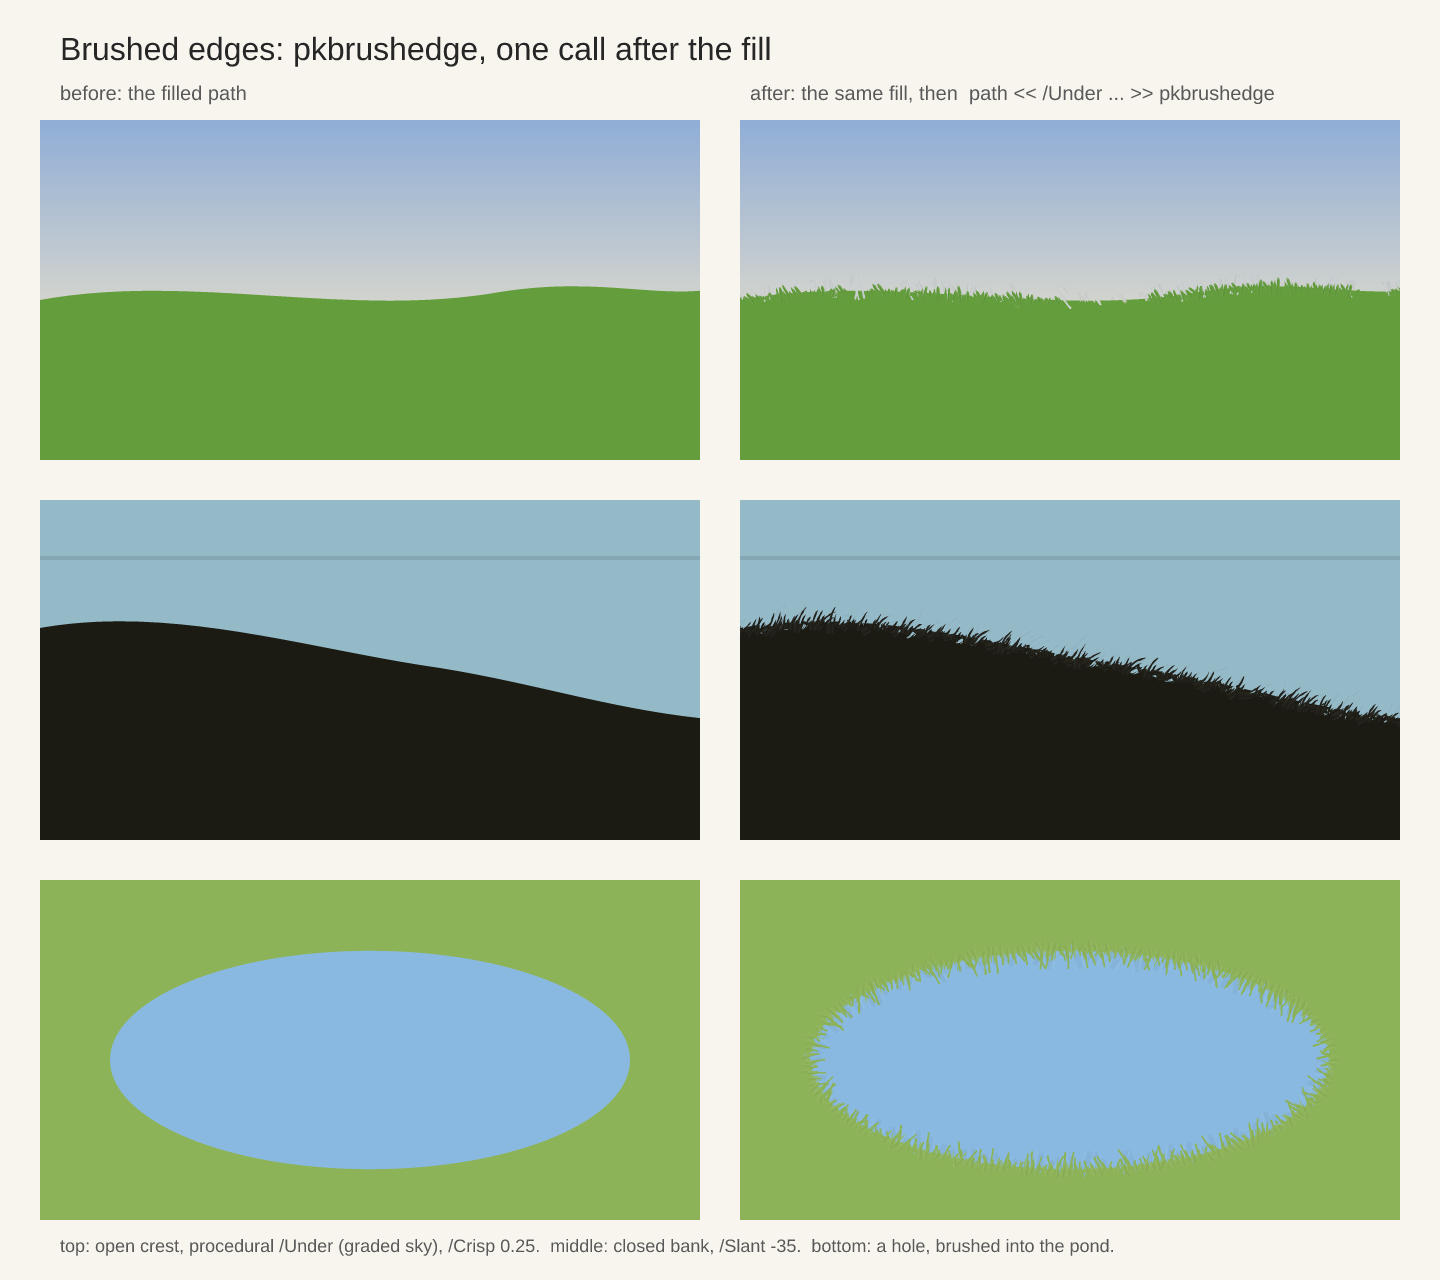
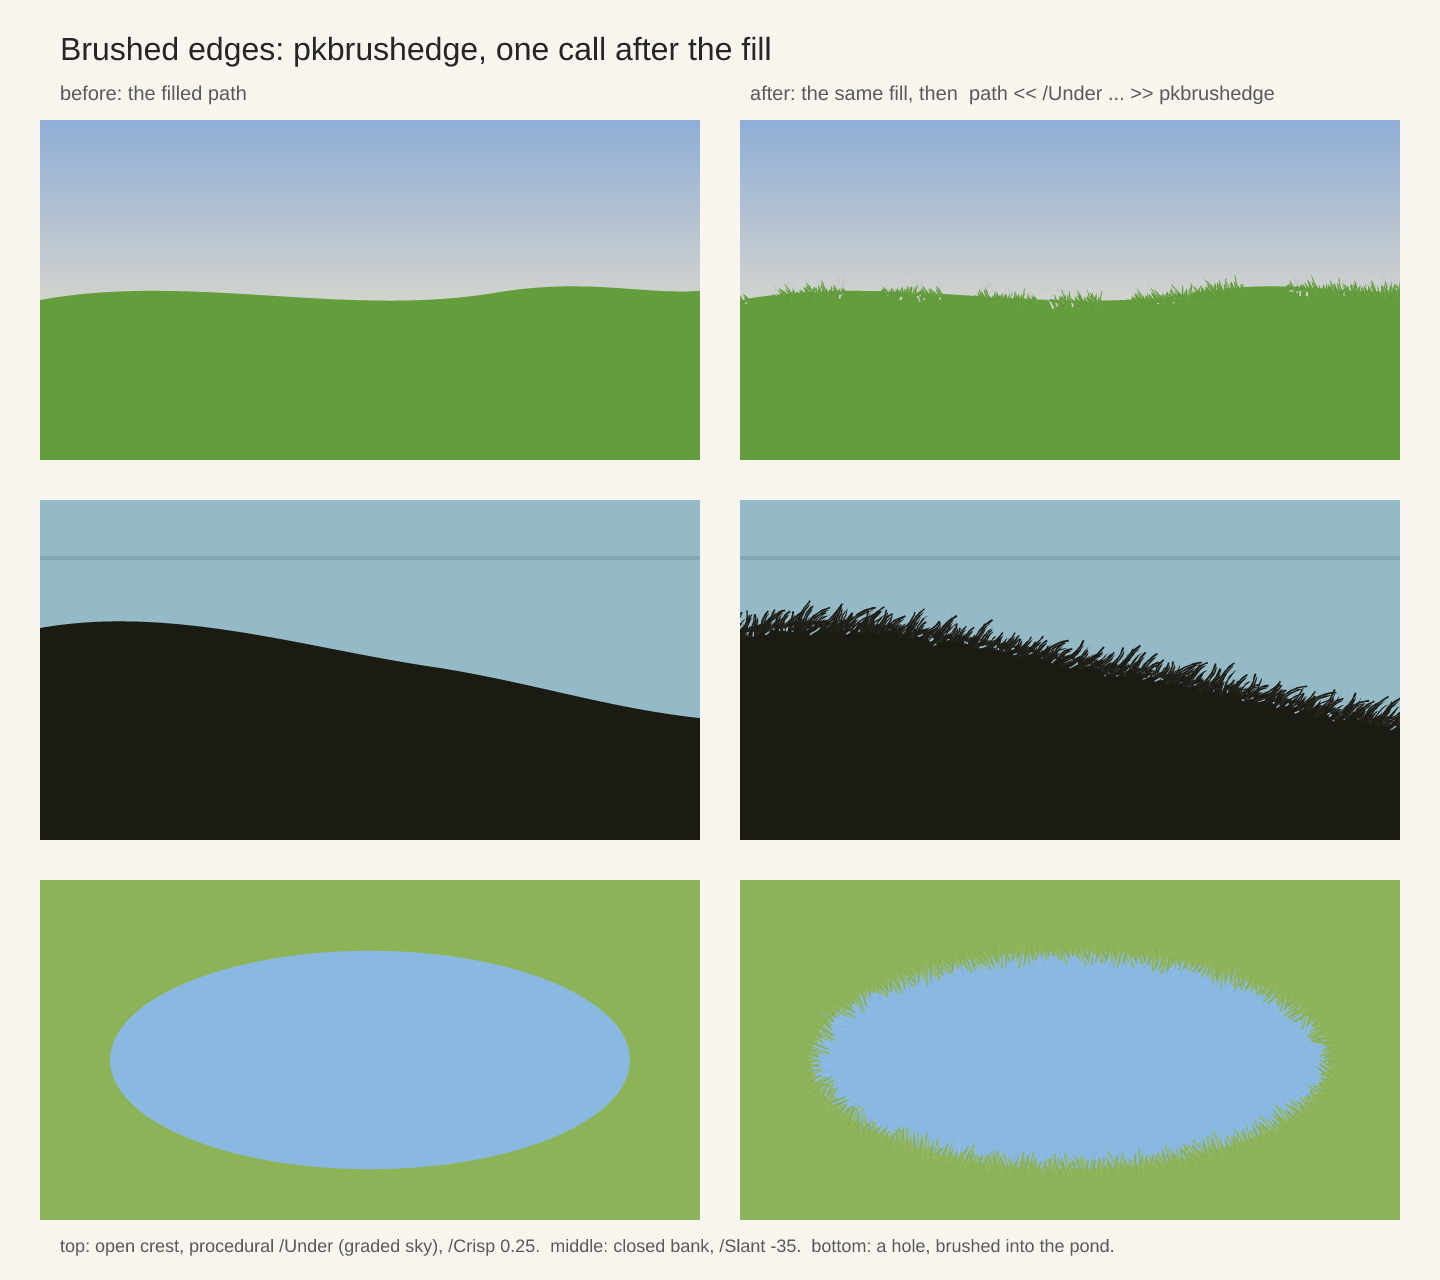
paintkit: pkbrushedge's two passes share their crisp stretches; inward-pass keys keep their guards (#347)

diff --git a/notes/347-brushed-edge.md b/notes/347-brushed-edge.md
@@ -11,9 +11,8 @@ motions; nothing existing changed):
   replaced with short strokes across it along the local normal. `/Toward
   /out | /in | /both`, `/Length`, `/LengthJitter`, `/Overlap` (the share of a
   stroke on its starting side), `/Spacing`, `/Wander`, `/Lean`, `/Slant` (a
-  fixed tilt from the normal), `/Bow`, `/Crisp` + `/CrispRun` (lost and found:
-  stretches left untouched, a two-state walk along the edge), `/Outward` (for
-  open subpaths).
+  fixed tilt from the normal), `/Bow`, `/Crisp` + `/CrispRun` + `/CrispSeed`
+  (lost and found: stretches left untouched), `/Outward` (for open subpaths).
 - `opts pkbrushedge` — the one-call edge. Inward cuts in `/Under` (colour,
   pigment name, or procedure `x y -> r g b`, asked per stroke) first, then the
   outward strokes in the current colour, each through `/Brush` (default a
@@ -33,7 +32,12 @@ motions; nothing existing changed):
   either way. Closure comes from `pkscanclosed`, not coincident endpoints.
 - *Lost and found.* Painters' edges are not broken evenly all along; `/Crisp`
   is named for what the artist sees (stretches left crisp), not "lost", which
-  in painting means the opposite (a dissolved edge).
+  in painting means the opposite (a dissolved edge). The first version ran a
+  per-slot two-state walk on `frnd`; in `pkbrushedge` the two passes then had
+  different crisp stretches, so only about Crisp squared of the edge was
+  really untouched (review). The stretches are now a function of arc length
+  and `/CrispSeed` alone (a small private hash, `mfu`), and the wrapper gives
+  both passes one seed.
 - *Order and density of the two passes.* First prototypes painted the outward
   pass, then an inward pass as dense as it: the inward strokes' inner ends
   ruled a pale band just inside the edge. The inward pass is now first,
@@ -67,4 +71,7 @@ in Ghostscript too.
 
 **Not done.** No `eofill` rule (the region is nonzero, like `fill`); an
 outline mixing open and closed subpaths puts the open ones into the region
-too. Evening Stream (PR #348) is not edited here.
+too. One non-overlapping outline per call: a mass built from overlapping
+closed blobs has edges hidden inside the union, and those get brushed too
+(the inward pass would nick the middle of the mass). Brush the union's
+outline, or each blob in its own call where its edge shows. Evening Stream (PR #348) is not edited here.

diff --git a/HANDOFF.md b/HANDOFF.md
@@ -945,8 +945,8 @@ renders eight examples in both and compares block-downsampled output).
   (`docs/paintkit_plane_demo.png`).
 - **`pkbrushedge` / `pkfeather` (issue #347) brush a filled mass's edge.**
   Their own section ("Brushed edges") sits after the brush motions.
-  `pkfeather` is a motion (replaces the path, paints nothing, five `frnd`
-  draws per slot, slots at a sixth of `/Spacing` as in `pkpull`). The out
+  `pkfeather` is a motion (replaces the path, paints nothing, one `frnd`
+  draw per call and four per slot, slots at a sixth of `/Spacing` as in `pkpull`). The out
   side is decided once per subpath, never per stop: for a closepath'd
   subpath, seven probes just left of the walk are tested against artkit's
   `scpath` region of the whole path (nonzero, like `fill`), so holes of
